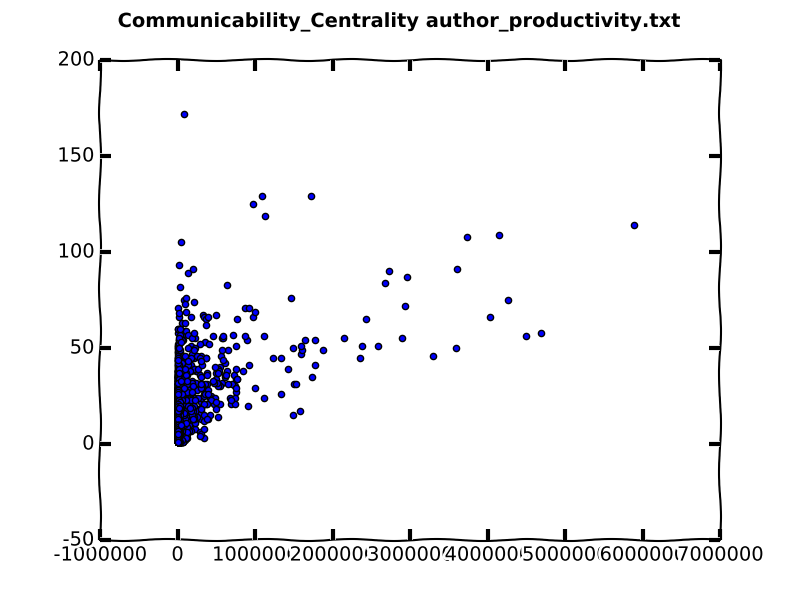
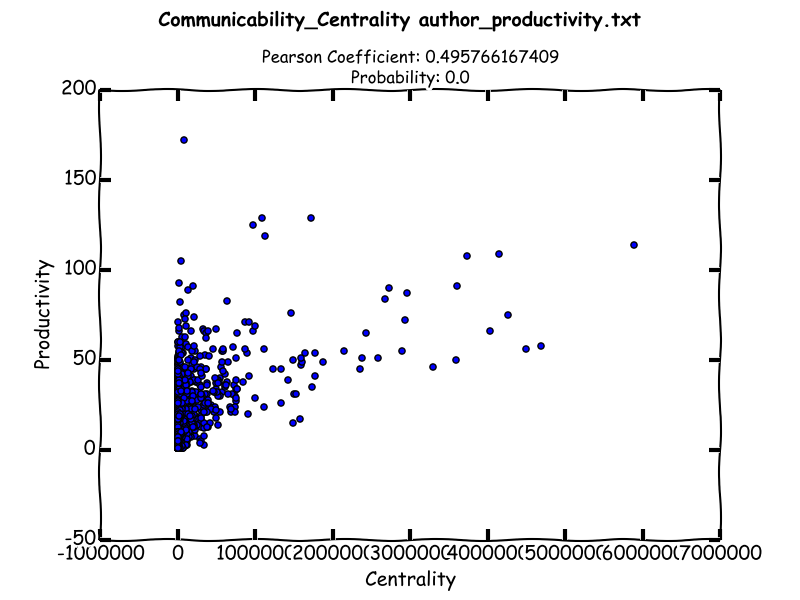
Add correlation coefficient to graphs

diff --git a/correlation_checker.py b/correlation_checker.py
@@ -1,11 +1,10 @@
 import networkx as nx
 from matplotlib import pyplot as plt
 import pylab
+from scipy import stats
 
 plt.xkcd()
 
-# Load the graph
-collab_graph = nx.Graph()
 
 centralities = {'Betweenness_Centrality': 0, 'Closeness_Centrality': 0, 'Communicability_Centrality': 0,
                 'Degree_Centrality': 0, 'Katz_Centrality': 0, 'Weighted_Degree_Centrality': 0}
@@ -48,8 +47,22 @@ print
 for centrality, c_values in centralities.items():
     for productivity, p_values in productivities.items():
         points = [(j, p_values[i]) for (i,j) in c_values.items()]
-        plt.scatter(map(lambda x: x[0], points), map(lambda x: x[1], points))
+
+        fig = plt.figure()
         plt.suptitle(centrality+' '+productivity, fontsize=14, fontweight='bold')
+
+        ax = fig.add_subplot(111)
+        fig.subplots_adjust(top=0.85)
+
+        ax.set_xlabel('Centrality')
+        ax.set_ylabel('Productivity')
+
+        pearson_coefficient = stats.pearsonr(map(lambda x: x[0], points), map(lambda x: x[1], points))
+        ax.set_title(pearson_coefficient)
+
+        plt.scatter(map(lambda x: x[0], points), map(lambda x: x[1], points))
+
         #plt.show()
+
         pylab.savefig('graphs/'+centrality+'-'+productivity+'.png')
         pylab.clf()
